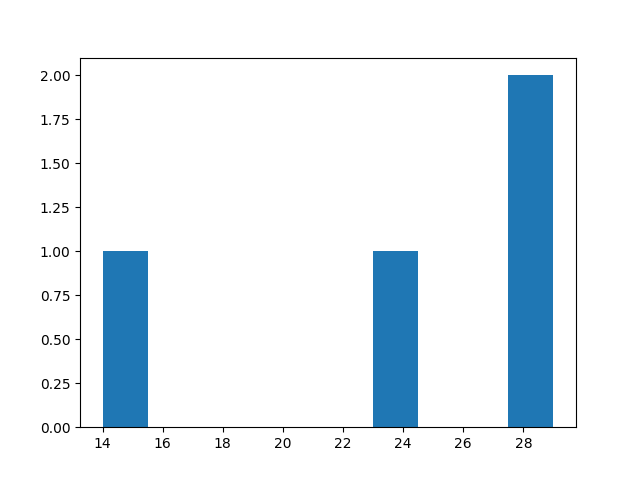
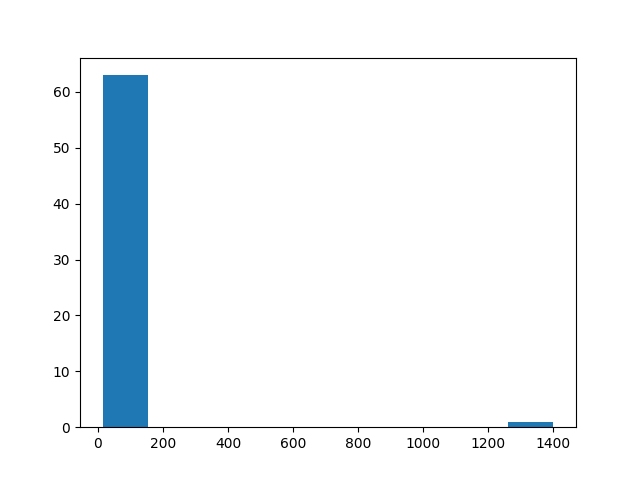
fixed bugs

diff --git a/mainsite/templates/mainsite/result.html b/mainsite/templates/mainsite/result.html
@@ -20,11 +20,30 @@
 		 *标准差：{{datastd}}<br/>
 		 变异系数：{{datacv}}%<br/>
 		 <br/>
-		 BOXPLOT AND HIST:{% load staticfiles %}<br/>
-		<table><tr>
-             <td> <img src="{% static 'media/images/boxplot.png' %}"></td>
-			 <td><img src="{% static 'media/images/hist.png' %}"></td>
-		</tr></table>
+		 BOXPLOT AND HIST:<br/>
+
+<h3 style='font-family:宋体'>BOXPLOT
+      <div class='container'>
+
+<form name='my form' action="{% url 'mainsite:boxplot'   %}" method='GET'>
+    <textarea name='user_data' rows=3 cols=70></textarea><br/>
+    <h4><input type='submit' value='提交'>
+    <input type='reset' value='清除重填'></h4>
+</form>
+</div>
+
+</h3>
+<h3 style='font-family:宋体'>HIST
+      <div class='container'>
+
+<form name='my form' action="{% url 'mainsite:hist'   %}" method='GET'>
+    <textarea name='user_data' rows=3 cols=70></textarea><br/>
+    <h4><input type='submit' value='提交'>
+    <input type='reset' value='清除重填'></h4>
+</form>
+</div>
+
+</h3>
         </h3>
       </li>
   </ul>

diff --git a/mainsite/templates/mainsite/charpters.html b/mainsite/templates/mainsite/charpters.html
@@ -7,7 +7,10 @@
 {% block content %}
 
 <h3 style='font-family:宋体'>
-      <li>201710112更新内容：</li>
+      <li>201710113更新内容：</li>
+	  <li>1.医学统计：描述性统计部分修复了boxplot和hist的bug。</li>
+	  <br/>
+	  <li>201710112更新内容：</li>
 	  <li>1.医学统计：描述性统计部分还是用空格间隔数字吧，暂时不支持上传excel文档，因为服务器用的是免费的，空间有限，还有就是懒……</li>
 	  <li>2.描述性统计部分加了boxplot和hist</li>
 	  <br/>

diff --git a/mainsite/views.py b/mainsite/views.py
@@ -142,9 +142,11 @@ def result(request):
     requestData=request.GET.copy()
     data=requestData['user_data']
     data=data.encode('utf-8')
+    
     datanum=[]
     for i in data.split(' '):
 	datanum.append(int(i))
+    
     total=sum(datanum)
     datamean=round(mean(datanum),3)
     datamedian=round(float(median(datanum)),3)
@@ -152,21 +154,42 @@ def result(request):
     datavar=round(var(datanum),3)
     datastd=round(std(datanum),3)
     datacv=round((datastd/datamean*100),3)
-    
-    
-    plt.boxplot(datanum)
-    plt.savefig('mainsite/static/media/images/boxplot.png')
-    plt.close()
-	
-    
-    plt.hist(datanum)
-    plt.savefig('mainsite/static/media/images/hist.png')
-    plt.close()
-    
-    
-    
-	
-	
-	
     context={'data':data,'datamean':datamean,'datamedian':datamedian,'datarange':datarange,'datavar':datavar,'datastd':datastd,'datacv':datacv}
     return render(request,'mainsite/result.html',context)
+
+def boxplot(request):
+    requestData=request.GET.copy()
+    data=requestData['user_data']
+    data=data.encode('utf-8')
+     
+    datanum=[]
+    for i in data.split(' '):
+	datanum.append(int(i))
+    datanum=list(datanum)
+    fig=Figure(figsize=(6,6))
+    ax=fig.add_subplot(111)
+    ax.boxplot(datanum)
+    canvas=FigureCanvasAgg(fig)
+    response=HttpResponse(content_type='image/png')
+    canvas.print_png(response)
+    plt.close(fig)
+    return response
+	
+def hist(request):
+	#template=get_template('desstat.html')
+    requestData=request.GET.copy()
+    data=requestData['user_data']
+    data=data.encode('utf-8')
+    datanum=[]
+    for i in data.split(' '):
+	datanum.append(int(i))
+    datanum=list(datanum)
+    fig=Figure(figsize=(6,6))
+    ax=fig.add_subplot(111)
+    ax.hist(datanum)
+    
+    canvas=FigureCanvasAgg(fig)
+    response=HttpResponse(content_type='image/png')
+    canvas.print_png(response)
+    plt.close(fig)
+    return response

diff --git a/mainsite/urls.py b/mainsite/urls.py
@@ -29,6 +29,10 @@ urlpatterns = [
 	url(r'^statistics/desstat/$',views.desstat,name='desstat'),
 	#DesStatisticsResult
 	url(r'^statistics/desstat/result/$',views.result,name='result'),
+	#DesStatisticsResult
+	url(r'^statistics/desstat/result/boxplot/$',views.boxplot,name='boxplot'),
+	#DesStatisticsResult
+	url(r'^statistics/desstat/result/hist/$',views.hist,name='hist'),
 	#Dataminings
 	url(r'^dataminings/$',views.dataminings,name='dataminings'),
 	#Datalabs

diff --git a/MessyData/urls.py b/MessyData/urls.py
@@ -22,5 +22,5 @@ urlpatterns = [
     url(r'^admin/', include(admin.site.urls)),
     url(r'^users/', include('users.urls',namespace='users')),
     url(r'',include('mainsite.urls',namespace='mainsite')),
-]+ static(settings.STATIC_URL, document_root = settings.STATIC_ROOT)+ static(settings.MEDIA_URL, document_root=settings.MEDIA_ROOT)
+]+ static(settings.STATIC_URL, document_root = settings.STATIC_ROOT)
 

diff --git a/MessyData/settings.py b/MessyData/settings.py
@@ -150,4 +150,7 @@ if os.getcwd()=='/app':
     STATICFILES_DIRS=(
         os.path.join(BASE_DIR,'static'),
     )
+    MEDIA_ROOT = os.path.join(BASE_DIR, 'media')
+ 
+    MEDIA_URL =  '/media/'
 
